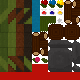
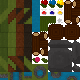
Added Render for second tile layer

Changed region(s): [[0.0, 0.8, 1.0, 1.0]]

diff --git a/src/main/java/org/bytefire/ld48/util/Camera.java b/src/main/java/org/bytefire/ld48/util/Camera.java
@@ -14,7 +14,7 @@ public class Camera{
         this.view = view;
         this.center = center;
         terrain = new TileLoader("terrain.png");
-        ((Level)new Asset("Level1-1.d", true).read()).printIds();
+        ((Level)new Asset("Level1-2.d", true).read()).printIds();
     }
 
     public boolean onScreen(Entity e){
@@ -66,7 +66,7 @@ public class Camera{
                 TexInfo t2;
                 t2 = layer2.getTextureFromGrid(Math.abs(x), Math.abs(y));
                 Tile tile2 = new Tile(terrain, t2);
-                //tile2.draw((int)view.getPoint1().getX() + (x * 8), (int)view.getPoint1().getY() + (y * 8));
+                tile2.draw((int)view.getPoint1().getX() + (x * 8), (int)view.getPoint1().getY() + (y * 8));
             }
         }
     }
